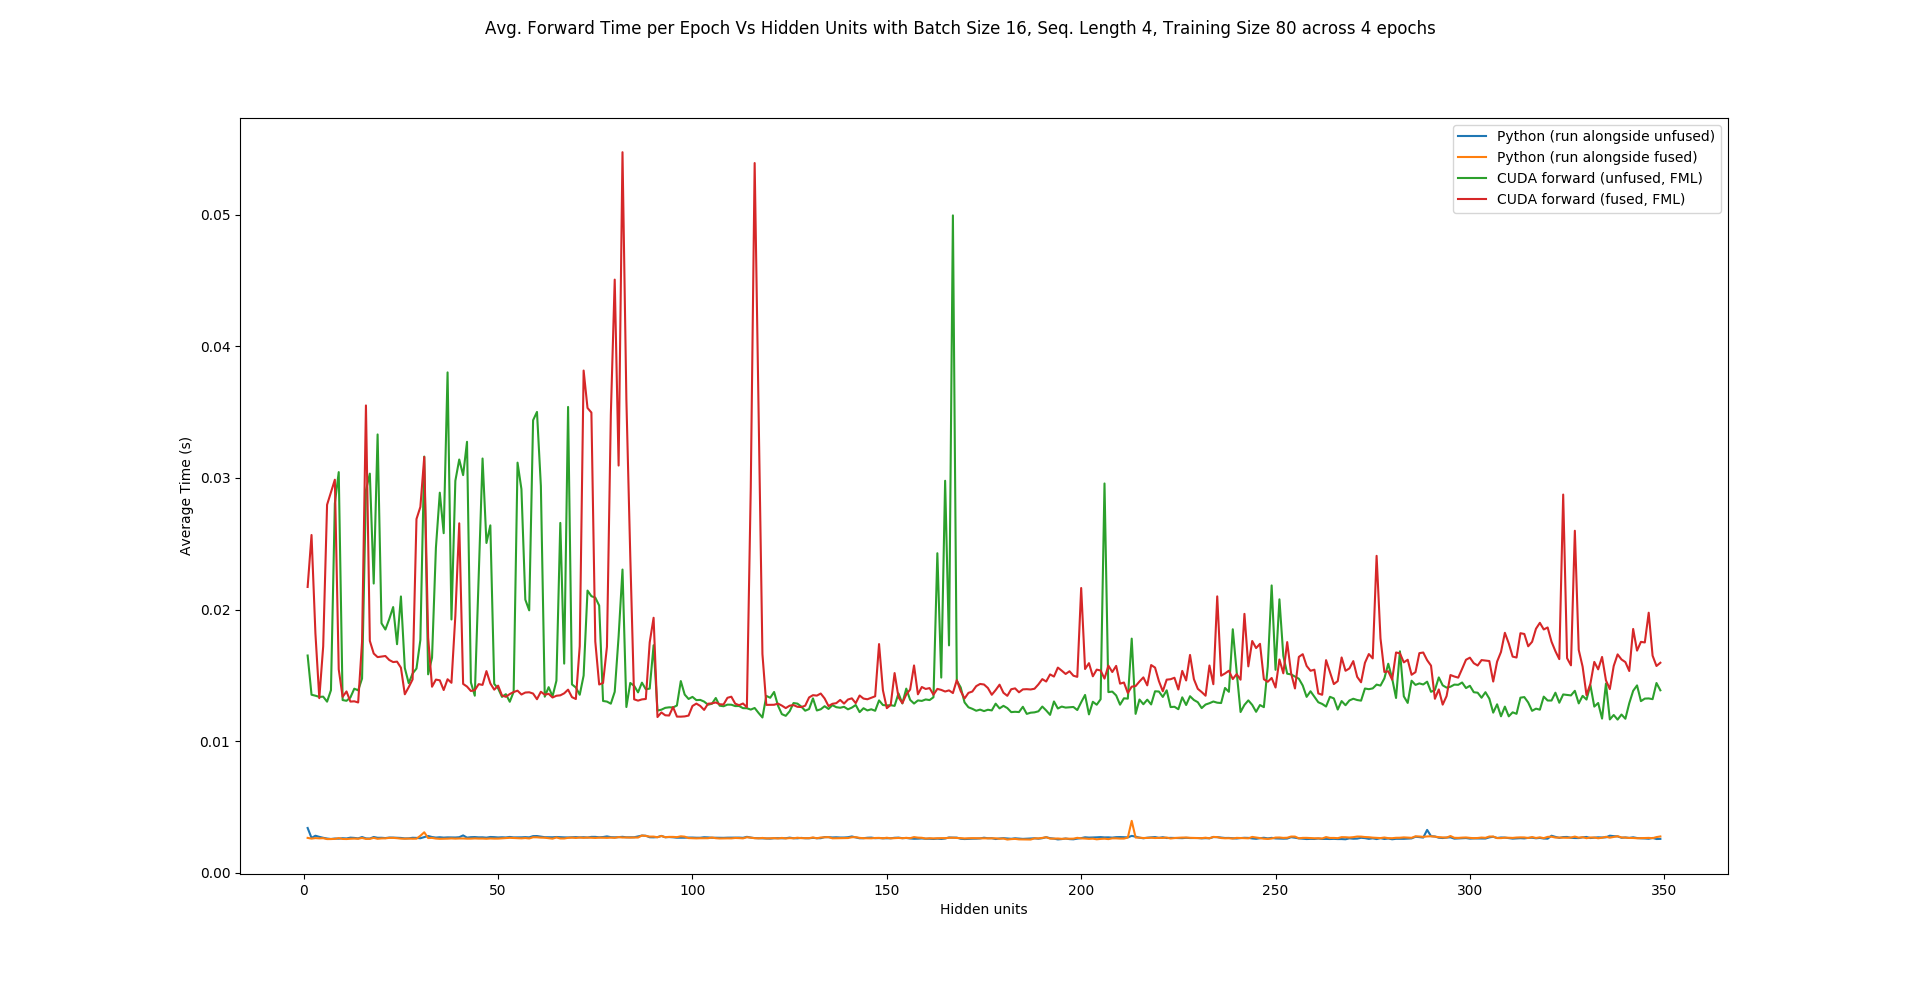
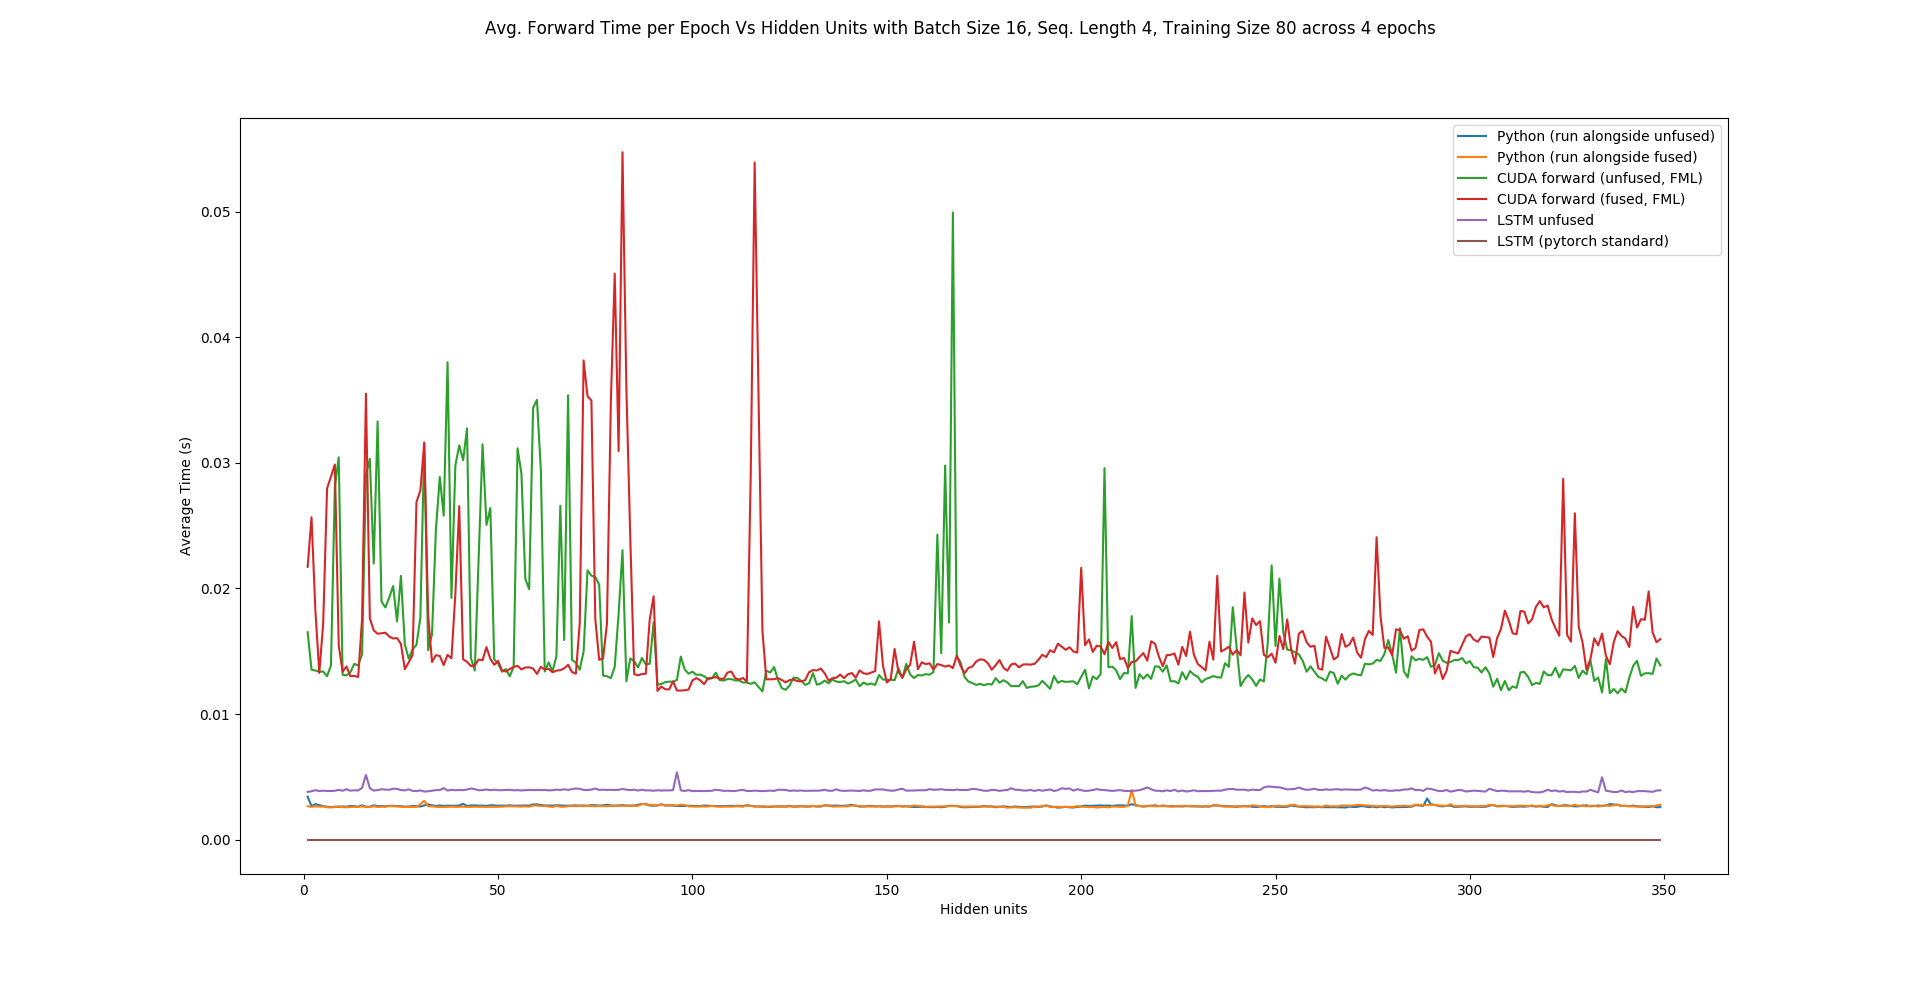
Redo all comparison plots to include fused/unfused LSTM

diff --git a/benchmarks/addition-task/plotfromfile.py b/benchmarks/addition-task/plotfromfile.py
@@ -22,7 +22,7 @@ from utils import train, test, drawepochs
 import matplotlib.pyplot as plt
 
 if __name__ == '__main__':
-    batchsize, seqlen, trainingsize, numepochs = 4, 4, 80, 4
+    batchsize, seqlen, trainingsize, numepochs = 16, 4, 80, 9
     parser = argparse.ArgumentParser(description='Addition task')
     path_to_this = os.path.abspath(os.path.dirname(__file__))
     cuda_v1_file_name = 'CUDA_v1_batch{}_seq{}_train{}_epochs{}.csv'.format(batchsize, seqlen, trainingsize, numepochs)
